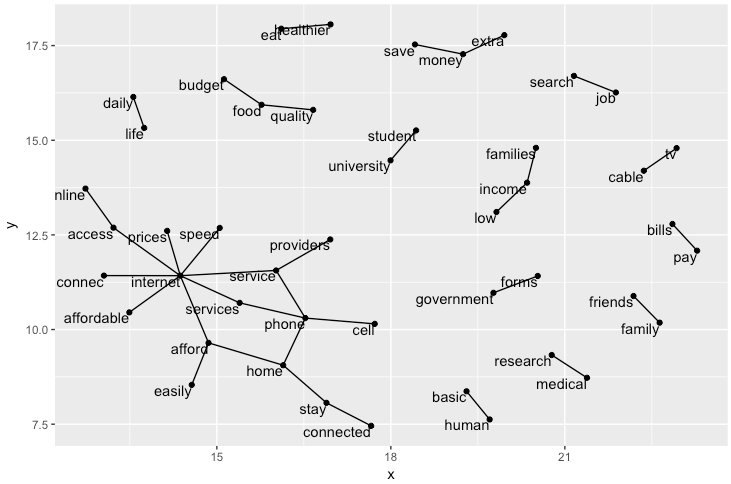
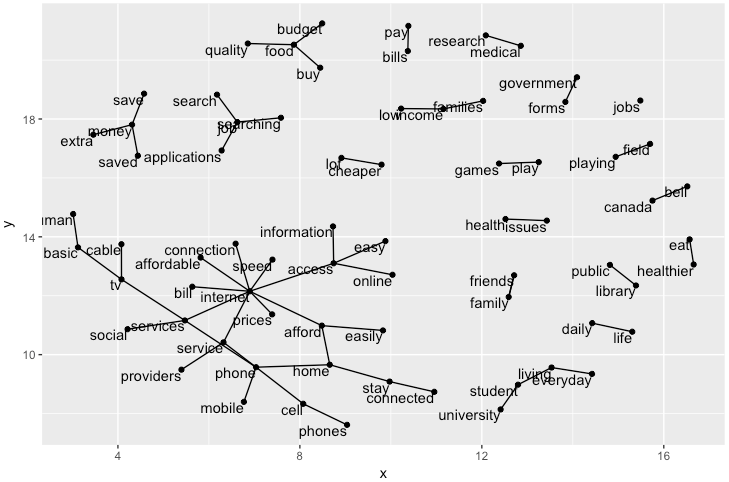
fixed some not correctly parsed words in acorn submissions

diff --git a/notebooks/IndividualSubmissions.md b/notebooks/IndividualSubmissions.md
@@ -91,7 +91,7 @@ Time to set the record straight. In April 2016, a historic CRTC hearing will sha
   - *239 Submissions in English*
   - *27 Submissions in French*  (used google translate API to translate them)
   - *6 Empty submissions*
- 
+
 
 ### Comparing individual submissions language
 
@@ -108,15 +108,15 @@ Time to set the record straight. In April 2016, a historic CRTC hearing will sha
 OM | ACORN | HTML
 --- | --- | ---
  internet  5.4% | internet   4.6% | internet 3.3%
- world  1.9% | access    2.2% | speed 1.5%
+ world  1.9% | access    2.1% | speed 1.5%
  access  1.9% | afford 1.3% | access 1%
  telecom   1.2% | money    1.2% | month 0.7%
- companies   1.1% | online    1.1% | data 0.7%
- pay   1% | family  0.9% | mbps 0.6%
- prices   0.9% | life    0.9% | rural 0.6%
- broadband   0.9% | home    0.9% | speeds 0.6%
- speed   0.9% | food 0.8% | live 0.6%
- affordable   0.9% | people 0.8% | bell 0.6%
+ companies   1.1% | online    1% | data 0.7%
+ pay   1% | information  1% | mbps 0.6%
+ prices   0.9% | family  0.9% | rural 0.6%
+ broadband   0.9% | life    0.9% | speeds 0.6%
+ speed   0.9% | home    0.8% | live 0.6%
+ affordable   0.9% | food 0.8% | bell 0.6%
 
 - Similarities:
   - ACORN, OM, HTML discuss internet access.
@@ -131,14 +131,14 @@ OM | ACORN | HTML
 
 OM | ACORN | HTML
 --- | --- | ---
-telecom companies   1.6%  | speed   internet    1.6% | internet    service 1.2%
-internet  services   1.4% | internet  access   1.6% | speed   internet 0.7%
-internet    access   1.2% | online access    1.5% | internet     access 0.5%
-internet   service   1.1% | low    income     0.9% | internet   services 0.4%
-world     class   0.8%    | stay connected     0.6% | download      speed 0.4%
-25      mbps   0.7%     | affordable internet     0.6% | 5       mbps 0.3%
-community    access   0.6% | cell   phone     0.6% | service  providers 0.3%
-3      mbps   0.6%         | internet service     0.4% | data       caps 0.3%
+telecom companies   1.6%  | speed   internet    1.5% | internet    service 1.2%
+internet  services   1.4% | internet  access   1.4% | speed   internet 0.7%
+internet    access   1.2% | online access    1.3% | internet     access 0.5%
+internet   service   1.1% | low    income     0.8% | internet   services 0.4%
+world     class   0.8%    | stay connected     0.5% | download      speed 0.4%
+25      mbps   0.7%     | affordable internet     0.5% | 5       mbps 0.3%
+community    access   0.6% | cell   phone     0.5% | service  providers 0.3%
+3      mbps   0.6%         | internet service     0.3% | data       caps 0.3%
 profit providers   0.6%    | afford internet     0.3% | internet connection 0.3%
 industrialized     world   0.6% | internet services      0.3% | bell     canada 0.2%
 
@@ -155,9 +155,9 @@ HTML submissions talk about internet speed, data caps and service providers like
 OM | ACORN | HTML
 --- | --- | ---
 community         access       programs   1.7% | low    income  families 0.7% | internet            service providers 0.3%
-3           mbps         upload   1.6% | affordable internet    access     0.5% | cell              phone   service 0.3%
-25           mbps       download   1.5% | easily   afford      home     0.5% |  1               mbps    upload 0.2%
-municipalities      community         access   1.4% |speed internet    access 0.5% | speed           internet   service 0.2%
+3           mbps         upload   1.6% | affordable internet    access     0.4% | cell              phone   service 0.3%
+25           mbps       download   1.5% | easily   afford      home     0.4% |  1               mbps    upload 0.2%
+municipalities      community         access   1.4% |speed internet    access 0.4% | speed           internet   service 0.2%
  world          class      broadband   1.4% | cell    phone   service     0.3% | basic telecommunications  services 0.2%
  affordable          world          class   1.4% | cell    phone   services     0.3% | residential           internet  services 0.2%
 sell      broadband       services   1.4% | easily   afford groceries 0.3% |  speed           internet    access 0.2%
@@ -195,7 +195,7 @@ Narratives:
 - pay bills, search jobs, save extra money
 - stay connected, easily afford internet access.
 - low-income families
-- budget food quality
+- buy quality food
 
 `HTML`:
 
@@ -227,11 +227,11 @@ OM submissions topics:
 ![topics2](images/topicsAC.png)
 
 ACORN submissions topics:
-1. budget save/afford food/Internet
-2. internet to stay in touch with family and friends
-3. internet/phone/tv at home per month affordable
-4. internet access for job/life
-5. low income, pay bills
+1. afford/Internet/stress
+2. internet to stay in touch with family
+3. internet/access daily life
+4. money afford internet/food
+5. internet access /online information
 
 `HTML`
 
@@ -263,8 +263,8 @@ Narrative:
 Similarly in ACORN submissions most common negative word is pay, it goes along with worry
 
 Narrative:
-- negative: pay-worry-poor-limited-struggle-difficult
-- positive: hope-chance-care-support
+- negative: pay-worry-poor-hard-limited-struggle-difficult
+- positive: helps-save-hope-care-support
 - to the question how would your life change if you have affordable internet:
 helps-fun-nice-happy-healthy
 
@@ -296,7 +296,7 @@ Narrative:
 
 `Negative ACORN`:
 
-"I would be able to afford a car and insurance for it gas without that money i can not afford to get married or own or insure a car for that ma er and that makes me very mad. "
+"The medical research I access is critically important as I have a health issue I must keep up to date on and my doctor sends me for the tests etc but does not have me to discuss in detail I want to keep up regarding the latest break- throughs and alternative therapies. I would feel more lost and worried without out more extensive information. Being able to email is very important as it keeps me connected to others and as I have this health issue right now it al- lows me to connectwhen I don't always have the energy to go out. "
 
 `Positive HTML(not really positive)`
 
@@ -313,4 +313,4 @@ OpenMedia submissions talk more about about large  telecom companies, real compe
 
 ACORN submissions touch low-income families issues, discuss internet as  necessity for work and  everyday life.
 
-HTML submissions mostly discuss large telecom provides - shaw, bell and Telus, talk about 1/5 upload/download speeds, mention phone services cell and land.
+HTML submissions mostly discuss large telecom provides - Shaw, Bell and Telus, talk about 1/5 upload/download speeds, mention phone services cell and land.
